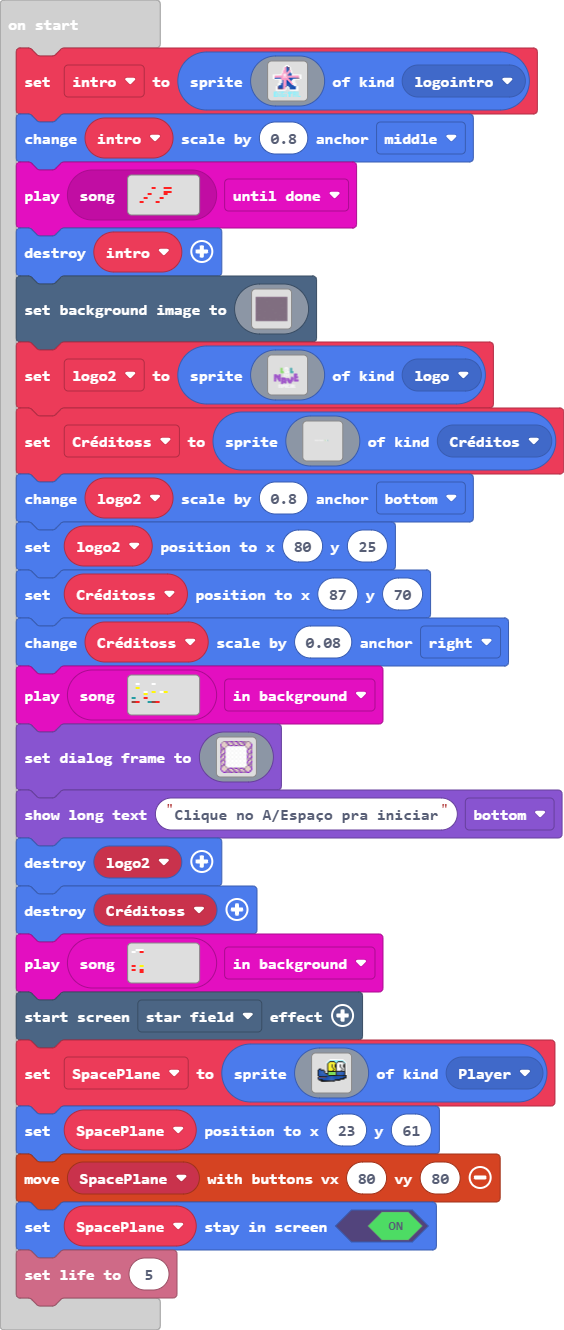
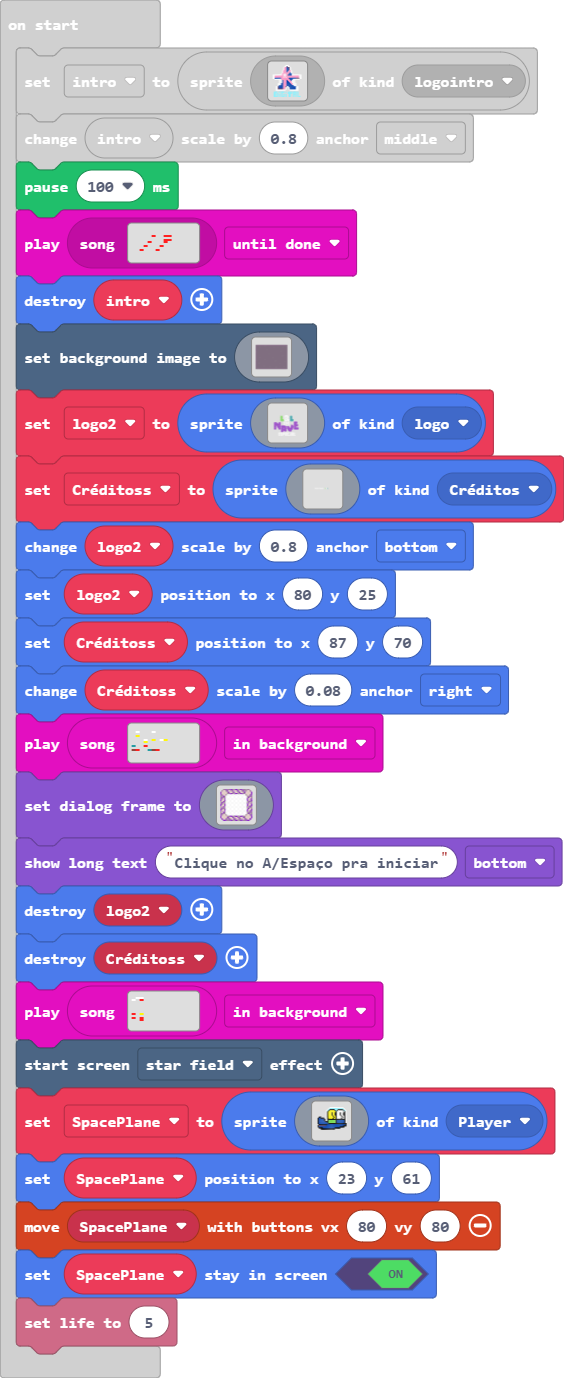
Update main.blocks, main.ts

diff --git a/main.ts b/main.ts
@@ -81,6 +81,7 @@ let projectile: Sprite = null
 let SpacePlane: Sprite = null
 let intro = sprites.create(assets.image`logo ntro`, SpriteKind.logointro)
 intro.changeScale(0.8, ScaleAnchor.Middle)
+pause(100)
 music.play(music.createSong(assets.song`intro music`), music.PlaybackMode.UntilDone)
 sprites.destroy(intro)
 scene.setBackgroundImage(assets.image`Fundo de espaço`)
